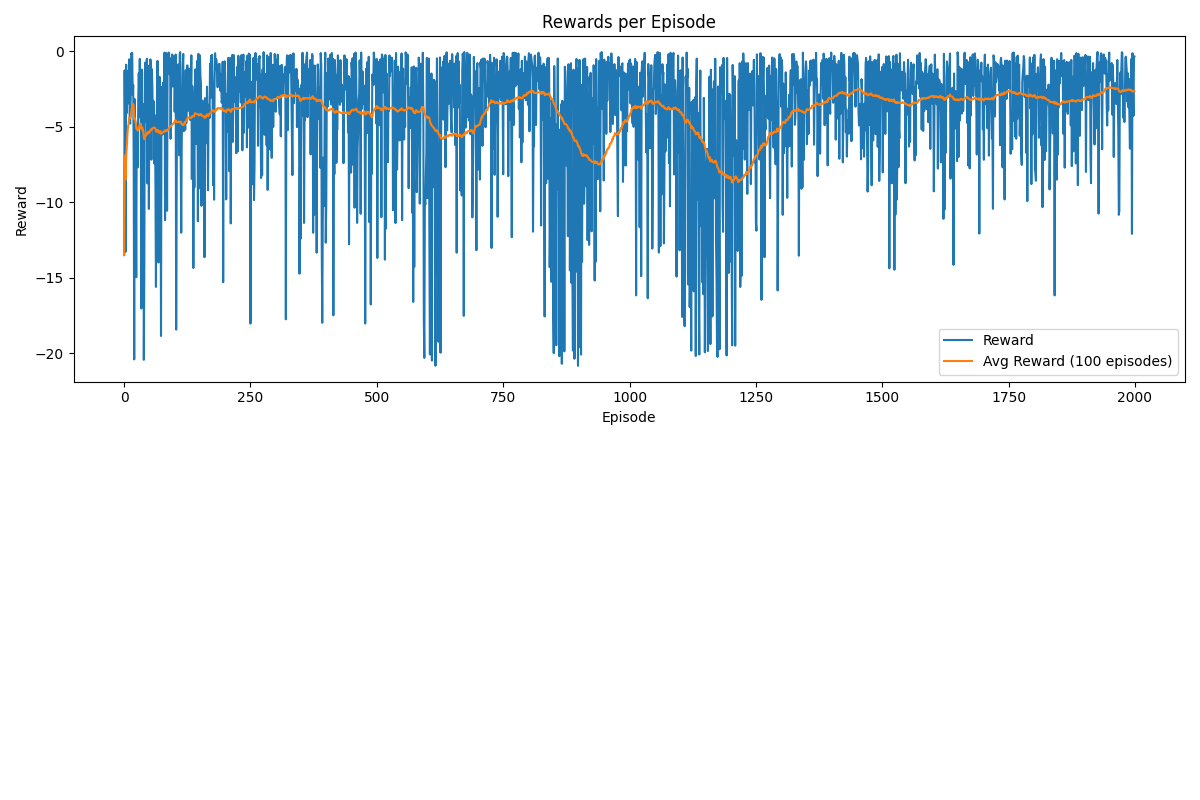
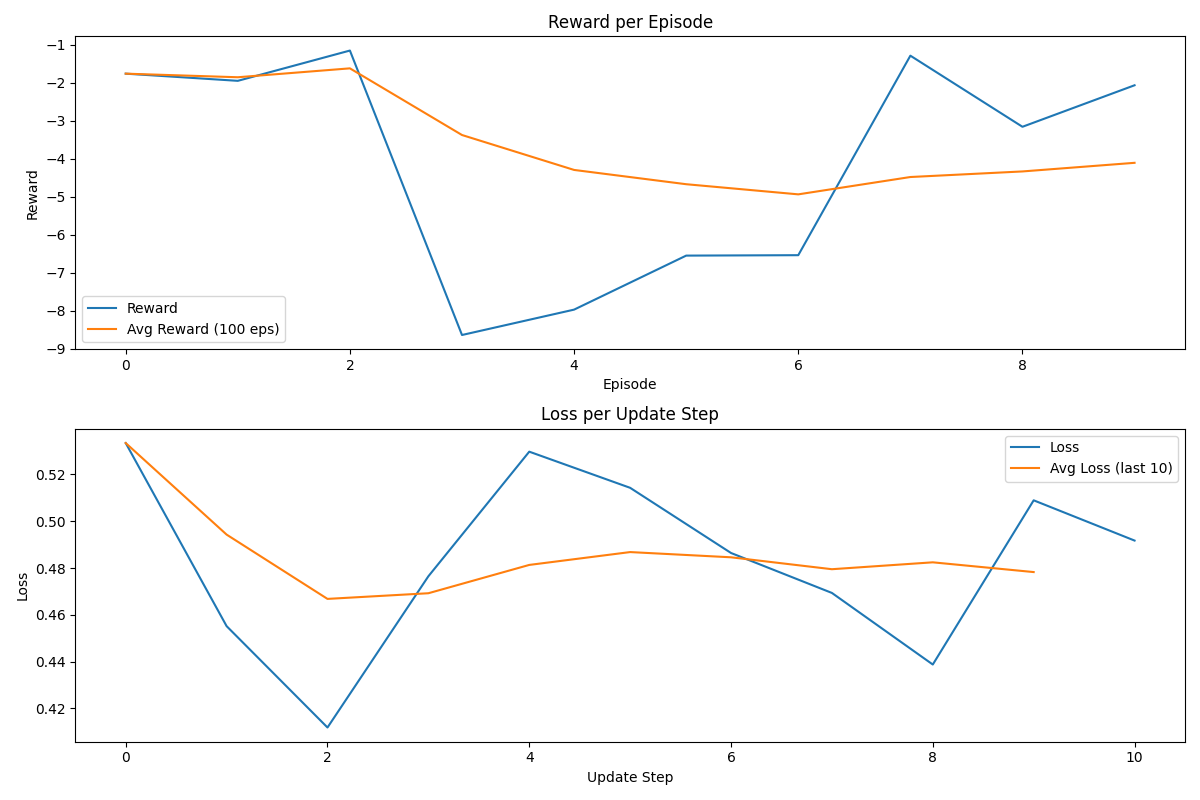
fix: ppo with proper plotting

diff --git a/rl_trainer/ppo_agent.py b/rl_trainer/ppo_agent.py
@@ -1,178 +1,259 @@
+import argparse
+import os
+import numpy as np
 import torch
 import torch.nn as nn
 import torch.optim as optim
 import torch.nn.functional as F
-import numpy as np
-import gymnasium as gym
 from torch.distributions import Categorical
 import matplotlib.pyplot as plt
+import gymnasium as gym
 from pong_env import PongEnv
 
-# Neural network for PPO
-class PPONetwork(nn.Module):
+DEVICE = torch.device("cuda" if torch.cuda.is_available() else "cpu")
+
+
+# ----------------------------- Memory Buffer ----------------------------- #
+class Memory:
     def __init__(self):
+        self.states, self.actions, self.log_probs = [], [], []
+        self.rewards, self.is_terminals = [], []
+
+    def clear(self):
+        self.__init__()
+
+
+# -------------------------- Actor–Critic Network ------------------------- #
+class ActorCritic(nn.Module):
+    def __init__(self, state_dim: int, action_dim: int):
         super().__init__()
-        self.fc1 = nn.Linear(6, 256)
-        self.fc2 = nn.Linear(256, 256)
-        self.actor = nn.Linear(256, 3)
-        self.critic = nn.Linear(256, 1)
+        hidden = 256
+        self.fc1 = nn.Linear(state_dim, hidden)
+        self.fc2 = nn.Linear(hidden, hidden)
+        self.actor = nn.Linear(hidden, action_dim)
+        self.critic = nn.Linear(hidden, 1)
 
     def forward(self, x):
         x = F.relu(self.fc1(x))
         x = F.relu(self.fc2(x))
-        return F.softmax(self.actor(x), dim=1), self.critic(x)
+        probs = F.softmax(self.actor(x), dim=-1)
+        value = self.critic(x).squeeze(-1)
+        return probs, value
 
+
+# ------------------------------- PPO Agent ------------------------------- #
 class PPOAgent:
-    def __init__(self, state_dim, action_dim, lr=1e-4, gamma=0.95, eps_clip=0.2, K_epochs=6):
+    def __init__(self, state_dim, action_dim, lr=2.5e-4, gamma=0.99, eps_clip=0.2, k_epochs=4):
         self.gamma = gamma
         self.eps_clip = eps_clip
-        self.K_epochs = K_epochs
+        self.k_epochs = k_epochs
 
-        self.device = torch.device("cuda" if torch.cuda.is_available() else "cpu")
-
-        self.policy = PPONetwork().to(self.device)
+        self.policy = ActorCritic(state_dim, action_dim).to(DEVICE)
         self.optimizer = optim.Adam(self.policy.parameters(), lr=lr)
-
-        self.policy_old = PPONetwork().to(self.device)
+        self.policy_old = ActorCritic(state_dim, action_dim).to(DEVICE)
         self.policy_old.load_state_dict(self.policy.state_dict())
+        self.mse_loss = nn.MSELoss()
 
-        self.MseLoss = nn.MSELoss()
-
-    def select_action(self, state, memory=None):
-        state_t = torch.tensor(state, dtype=torch.float32, device=self.device).unsqueeze(0)
+    # ------------------------------------------------------------------ #
+    def select_action(self, state, memory: Memory):
+        state = torch.tensor(state, dtype=torch.float32, device=DEVICE)
         with torch.no_grad():
-            action_probs, state_value = self.policy_old(state_t)
-        dist = Categorical(action_probs)
+            probs, _ = self.policy_old(state)
+        probs = torch.clamp(probs, 1e-8, 1.0)  # avoid log(0)
+        dist = Categorical(probs)
         action = dist.sample()
 
-        if memory is not None:
-            memory.states.append(state_t)
-            memory.actions.append(action)
-            memory.logprobs.append(dist.log_prob(action))
-            memory.state_values.append(state_value.squeeze(0))
-
+        memory.states.append(state)
+        memory.actions.append(action)
+        memory.log_probs.append(dist.log_prob(action))
         return action.item()
 
-    def update(self, memory):
-        rewards = []
-        discounted_reward = 0
-        for reward, is_terminal in zip(reversed(memory.rewards), reversed(memory.is_terminals)):
-            if is_terminal:
-                discounted_reward = 0
-            discounted_reward = reward + (self.gamma * discounted_reward)
-            rewards.insert(0, discounted_reward)
+    # ------------------------------------------------------------------ #
+    def update(self, memory: Memory):
+        if len(memory.rewards) == 0:
+            return np.nan
 
-        rewards = torch.tensor(rewards, dtype=torch.float32).to(self.device)
-        rewards = (rewards - rewards.mean()) / (rewards.std() + 1e-5)
+            # ------- Compute discounted returns ------- #
+        returns = []
+        discounted = 0
+        for reward, is_term in zip(reversed(memory.rewards), reversed(memory.is_terminals)):
+            if is_term:
+                discounted = 0
+            discounted = reward + self.gamma * discounted
+            returns.insert(0, discounted)
+        returns = torch.tensor(returns, dtype=torch.float32, device=DEVICE)
+        returns = (returns - returns.mean()) / (returns.std() + 1e-7)
 
-        old_states = torch.cat(memory.states).to(self.device).detach()
-        old_actions = torch.cat(memory.actions).to(self.device).detach()
-        old_logprobs = torch.cat(memory.logprobs).to(self.device).detach()
-        old_state_values = torch.cat(memory.state_values).to(self.device).detach()
+        # ------- Convert memory to tensors ------- #
+        states = torch.stack(memory.states).to(DEVICE)
+        actions = torch.stack(memory.actions).to(DEVICE)
+        old_log_probs = torch.stack(memory.log_probs).to(DEVICE)
 
-        all_losses = []
-        for _ in range(self.K_epochs):
-            action_probs, state_values = self.policy(old_states)
-            dist = Categorical(action_probs)
-            logprobs = dist.log_prob(old_actions)
-            state_values = state_values.squeeze()
+        losses = []
+        for _ in range(self.k_epochs):
+            probs, state_values = self.policy(states)
+            probs = torch.clamp(probs, 1e-8, 1.0)
+            dist = Categorical(probs)
+            log_probs = dist.log_prob(actions)
+            entropy = dist.entropy()
 
-            ratios = torch.exp(logprobs - old_logprobs.detach())
-            advantages = rewards - old_state_values.detach().squeeze()
-
+            ratios = torch.exp(log_probs - old_log_probs.detach())
+            advantages = returns - state_values.detach()
             surr1 = ratios * advantages
             surr2 = torch.clamp(ratios, 1 - self.eps_clip, 1 + self.eps_clip) * advantages
 
-            loss = -torch.min(surr1, surr2) + 0.5 * self.MseLoss(state_values, rewards) - 0.01 * dist.entropy()
+            loss = -torch.min(surr1, surr2).mean() \
+                   + 0.5 * self.mse_loss(state_values, returns) \
+                   - 0.01 * entropy.mean()
 
             self.optimizer.zero_grad()
-            loss.mean().backward()
+            loss.backward()
+            nn.utils.clip_grad_norm_(self.policy.parameters(), 0.5)
             self.optimizer.step()
-            all_losses.append(loss.mean().item())
+            losses.append(loss.item())
 
         self.policy_old.load_state_dict(self.policy.state_dict())
-        return np.mean(all_losses)
+        return float(np.mean(losses))
 
-class Memory:
-    def __init__(self):
-        self.states = []
-        self.actions = []
-        self.logprobs = []
-        self.rewards = []
-        self.is_terminals = []
-        self.state_values = []
 
-    def clear_memory(self):
-        self.__init__()
+# ------------------------- Environment Selection ------------------------- #
 
-def train_pong():
-    env = PongEnv()
-    agent = PPOAgent(state_dim=env.observation_space.shape, action_dim=env.action_space.n)
+def make_env(env_name: str):
+    if env_name == "custom":
+        if PongEnv is None:
+            raise RuntimeError("pong_env.py not importable – ensure it exists on PYTHONPATH")
+        return PongEnv()
+    return gym.make(env_name)
 
-    max_episodes = 2000
-    max_steps_per_episode = 500
-    update_timestep = 1000
+
+# ----------------------------- Training Loop ----------------------------- #
+
+def train(cfg):
+    env = make_env(cfg.env)
+    state_dim = env.observation_space.shape[0]
+    action_dim = env.action_space.n
+
+    agent = PPOAgent(state_dim, action_dim,
+                     lr=cfg.lr, gamma=cfg.gamma, eps_clip=cfg.eps_clip)
     memory = Memory()
+
+    rewards_history, avg_rewards_history = [], []
+    losses_history, avg_losses_history = [], []
+
     timestep = 0
-    episode_count = 0
-    episode_rewards = []
-    avg_rewards = []
-    losses = []
+    last_loss_value = None
 
-    state, _ = env.reset()
-    episode_reward = 0
+    for ep in range(1, cfg.episodes + 1):
+        state, _ = env.reset()
+        ep_reward = 0
+        done = False
 
-    while episode_count < max_episodes:
-        timestep += 1
-        action = agent.select_action(state, memory)
-        next_state, reward, done, _, _ = env.step(action)
-        memory.rewards.append(reward)
-        memory.is_terminals.append(done)
+        # --------------- play one episode ---------------
+        while not done:
+            timestep += 1
+            action = agent.select_action(state, memory)
+            next_state, r, done, _, _ = env.step(action)
 
-        if timestep % update_timestep == 0:
-            mean_loss = agent.update(memory)
-            memory.clear_memory()
-            losses.append(mean_loss)
+            memory.rewards.append(r)
+            memory.is_terminals.append(done)
+            state = next_state
+            ep_reward += r
 
-        state = next_state
-        episode_reward += reward
+            # ---- update on schedule ----
+            if timestep % cfg.update_timestep == 0:
+                last_loss_value = agent.update(memory)
+                memory.clear()
+                losses_history.append(last_loss_value)
 
-        if done or timestep >= max_steps_per_episode:
-            episode_rewards.append(episode_reward)
-            avg_reward = np.mean(episode_rewards[-100:])
-            avg_rewards.append(avg_reward)
+        # ---------- force one final update (per-episode) ----------
+        if len(memory.rewards) > 0:
+            last_loss_value = agent.update(memory)
+            memory.clear()
+            losses_history.append(last_loss_value)
 
-            print(f"Episode: {episode_count+1}, Reward: {episode_reward:.2f}, Avg (100): {avg_reward:.2f}")
+        # ---------- record stats ----------
+        rewards_history.append(ep_reward)
+        avg_rewards_history.append(np.mean(rewards_history[-100:]))
 
-            state, _ = env.reset()
-            episode_reward = 0
-            timestep = 0
-            episode_count += 1
+        # avoid nan when losses_history is still empty
+        if losses_history:
+            avg_losses_history.append(np.mean(losses_history[-10:]))
+        else:
+            avg_losses_history.append(np.nan)
 
-            if episode_count % 50 == 0:
-                torch.save(agent.policy.state_dict(), f"pong_policy_episode_{episode_count}.pth")
+        # ---------- console log ----------
+        avg_reward_str = f"{avg_rewards_history[-1]:7.2f}"
+        loss_str = (
+            f"{last_loss_value:8.4f}"
+            if last_loss_value is not None and not np.isnan(last_loss_value)
+            else "   --  "
+        )
+        print(
+            f"Ep {ep:4d}/{cfg.episodes} | "
+            f"Reward {ep_reward:8.2f} | "
+            f"Avg(100) {avg_reward_str} | "
+            f"Loss {loss_str}"
+        )
 
     env.close()
 
+    # ---------- draw curves ----------
+    plot_curves(rewards_history, avg_rewards_history,
+                losses_history, avg_losses_history)
+
+
+# ---------------------------- Plotting Helper ---------------------------- #
+
+def plot_curves(rewards, avg_rewards, losses, avg_losses):
+    if len(losses) == 0:
+        print("No loss values recorded – try lowering --update_timestep.")
+        return
+
     plt.figure(figsize=(12, 8))
+
+    # ---------- rewards ----------
     plt.subplot(2, 1, 1)
-    plt.plot(episode_rewards, label='Reward')
-    plt.plot(avg_rewards, label='Avg Reward (100 episodes)')
-    plt.title('Rewards per Episode')
-    plt.xlabel('Episode')
-    plt.ylabel('Reward')
+    plt.plot(rewards, label="Reward")
+    plt.plot(avg_rewards, label="Avg Reward (100 eps)")
+    plt.title("Reward per Episode")
+    plt.xlabel("Episode")
+    plt.ylabel("Reward")
     plt.legend()
 
-    if losses:
-        plt.subplot(2, 1, 2)
-        plt.plot(losses)
-        plt.title('Loss (if captured)')
-        plt.xlabel('Update Step')
-        plt.ylabel('Loss')
+    # ---------- losses ----------
+    plt.subplot(2, 1, 2)
+    plt.plot(losses, label="Loss")
+    plt.plot(avg_losses, label="Avg Loss (last 10)")
+    plt.title("Loss per Update Step")
+    plt.xlabel("Update Step")
+    plt.ylabel("Loss")
+    plt.legend()
 
     plt.tight_layout()
-    plt.savefig('ppo_training_results.png')
+    out_path = "ppo_training_results.png"
+    plt.savefig(out_path)
+    print(f"Saved curves to {out_path}")
     plt.show()
 
+
+# ----------------------------------- CLI --------------------------------- #
+
+def main():
+    parser = argparse.ArgumentParser(description="Train a PPO agent")
+    sub = parser.add_subparsers(dest="cmd", required=True)
+
+    tr = sub.add_parser("train", help="Start training")
+    tr.add_argument("--env", type=str, default="custom", help="Gym env id or 'custom'")
+    tr.add_argument("--episodes", type=int, default=1000)
+    tr.add_argument("--lr", type=float, default=2.5e-4)
+    tr.add_argument("--gamma", type=float, default=0.99)
+    tr.add_argument("--eps_clip", type=float, default=0.2)
+    tr.add_argument("--update_timestep", type=int, default=1024, help="Policy update interval")
+
+    cfg = parser.parse_args()
+    if cfg.cmd == "train":
+        train(cfg)
+
+
 if __name__ == "__main__":
-    train_pong()
+    main()
